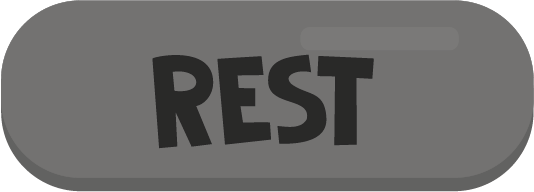
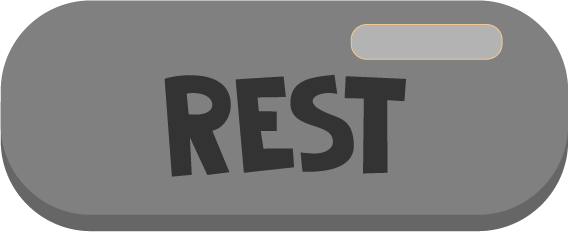
Updated Enter button in HomePage.xaml

diff --git a/Game/Game/Views/Home/HomePage.xaml b/Game/Game/Views/Home/HomePage.xaml
@@ -46,8 +46,8 @@
                         />
                 </StackLayout>
 
-                <Button
-                    Text="Enter"
+                <ImageButton
+                    Source="icon_enter_button.png"
                     Clicked="GameButton_Clicked"/>
 
             </StackLayout>
